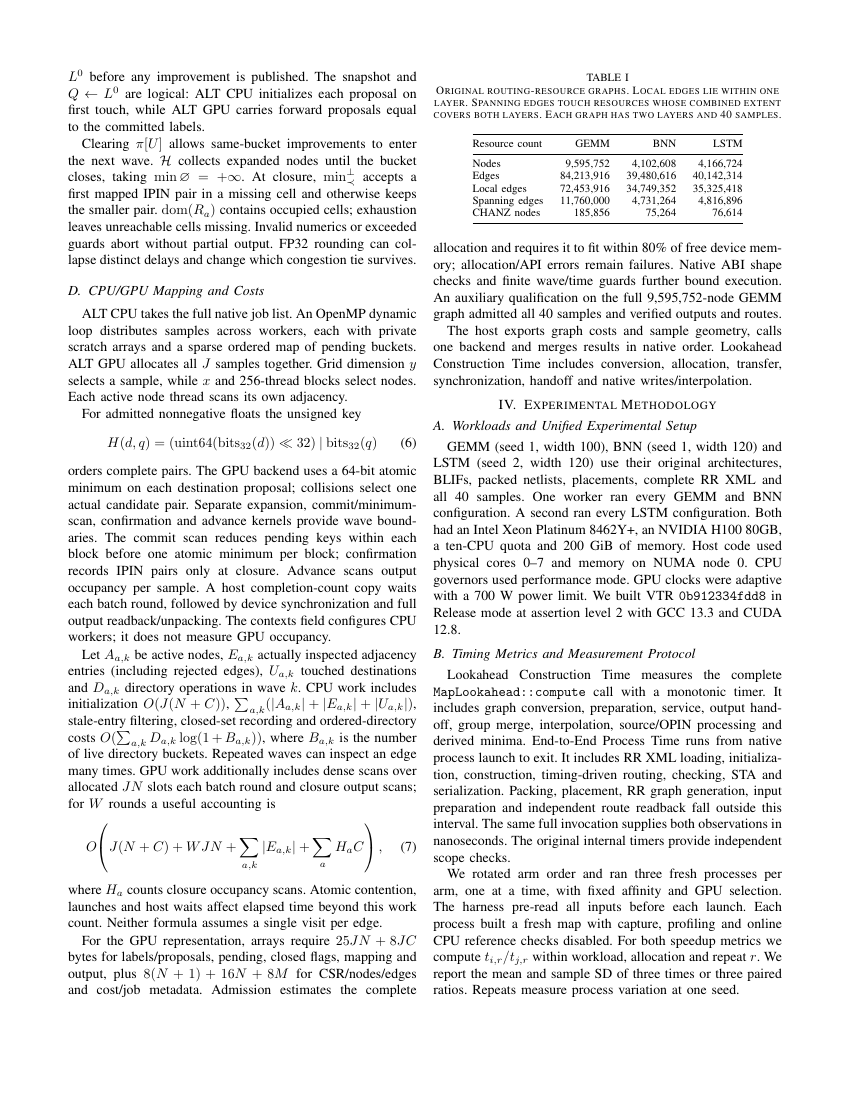
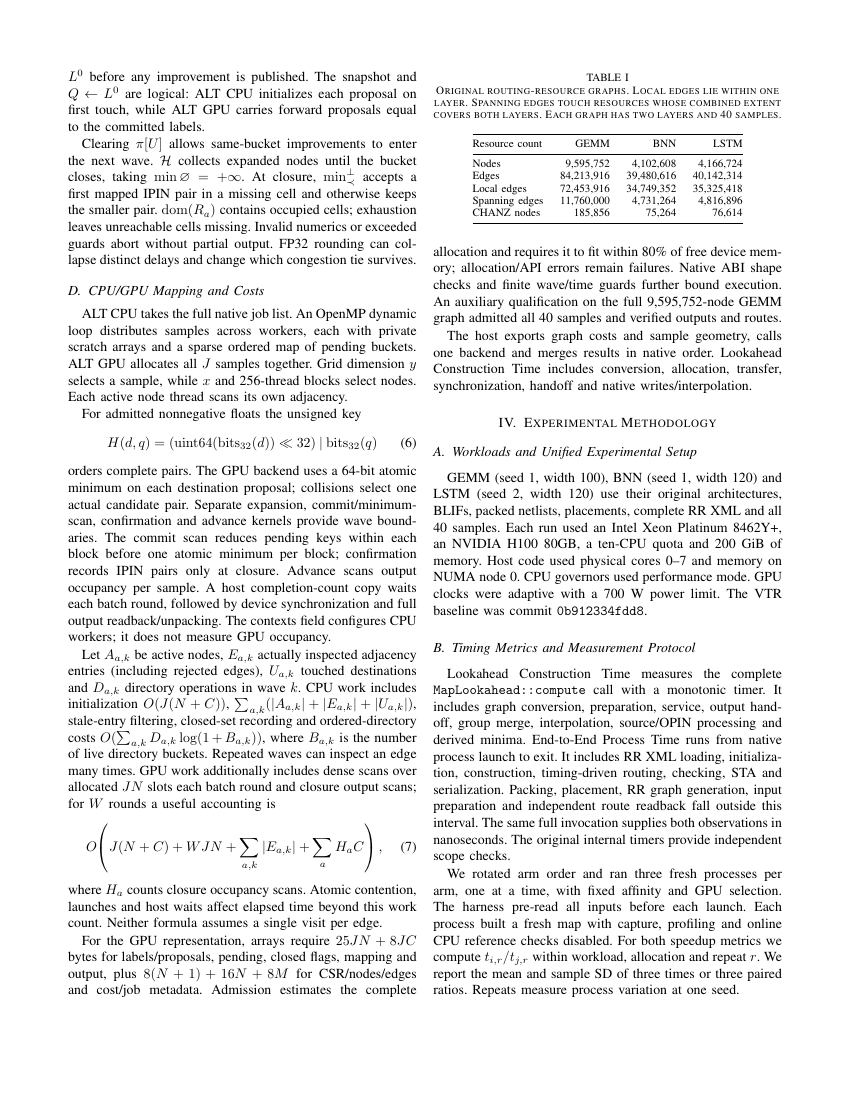
Condense the shared experimental setup in Section IV-A

Changed region(s): [[0.4894, 0.2164, 0.9176, 0.8036]]

diff --git a/paper/dac2027_unified_v3/sections/experimental.tex b/paper/dac2027_unified_v3/sections/experimental.tex
@@ -1,6 +1,6 @@
 \section{Experimental Methodology}
 \subsection{Workloads and Unified Experimental Setup}
-GEMM (seed 1, width 100), BNN (seed 1, width 120) and LSTM (seed 2, width 120) use their original architectures, BLIFs, packed netlists, placements, complete RR XML and all 40 samples. One worker ran every GEMM and BNN configuration. A second ran every LSTM configuration. Both had an Intel Xeon Platinum 8462Y+, an NVIDIA H100 80GB, a ten-CPU quota and 200 GiB of memory. Host code used physical cores 0--7 and memory on NUMA node 0. CPU governors used performance mode. GPU clocks were adaptive with a 700 W power limit. We built VTR \texttt{0b912334fdd8} in Release mode at assertion level 2 with GCC 13.3 and CUDA 12.8.
+GEMM (seed 1, width 100), BNN (seed 1, width 120) and LSTM (seed 2, width 120) use their original architectures, BLIFs, packed netlists, placements, complete RR XML and all 40 samples. Each run used an Intel Xeon Platinum 8462Y+, an NVIDIA H100 80GB, a ten-CPU quota and 200 GiB of memory. Host code used physical cores 0--7 and memory on NUMA node 0. CPU governors used performance mode. GPU clocks were adaptive with a 700 W power limit. The VTR baseline was commit \texttt{0b912334fdd8}.
 \begin{table}[t]\centering\caption{Original routing-resource graphs. Local edges lie within one layer. Spanning edges touch resources whose combined extent covers both layers. Each graph has two layers and 40 samples.}\label{tab:rr}
 \begin{tabular}{@{}lrrr@{}}\toprule
 Resource count & GEMM & BNN & LSTM\\\midrule
